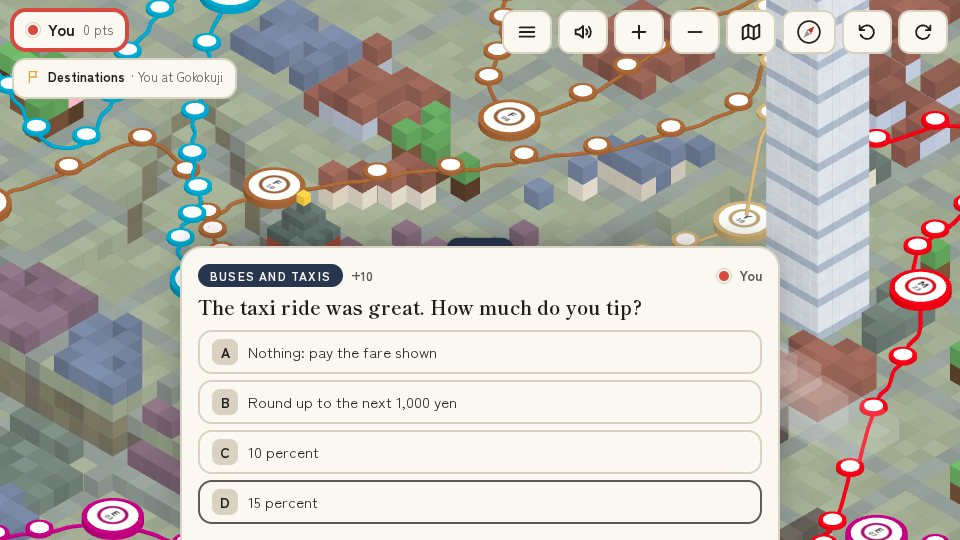
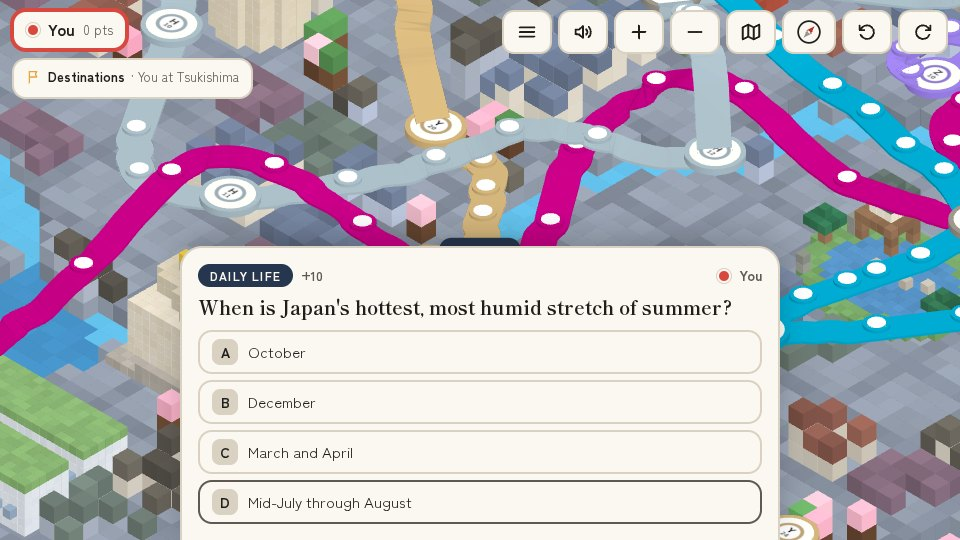
konbini page: current screenshots and social card

diff --git a/konbini/index.html b/konbini/index.html
@@ -4,4 +4,4 @@
 <!--║ snek  rogu                         ║-->
 <!--║ (Esc exits back to this menu)      ║-->
 <!--╚════════════════════════════════════╝-->
-<!DOCTYPE html> <html lang="en"> <head> <meta charset="utf-8"> <meta name="viewport" content="width=device-width,initial-scale=1"> <title>Konbini Quest · eightyfour.ca</title> <meta name="description" content="Play Konbini Quest in your browser: 500 Japan travel etiquette questions and a voxel Tokyo subway to ride. Free, no account, works offline. Android app coming soon."> <link rel="canonical" href="https://eightyfour.ca/konbini/"> <meta name="color-scheme" content="dark light"> <meta name="theme-color" media="(prefers-color-scheme: light)" content="#27364f"> <meta name="theme-color" media="(prefers-color-scheme: dark)" content="#27364f"> <meta name="author" content="Michal Pandyra"> <meta name="robots" content="max-image-preview:large"> <meta property="og:type" content="website"> <meta property="og:site_name" content="eightyfour.ca"> <meta property="og:locale" content="en"> <meta property="og:title" content="Konbini Quest"> <meta property="og:description" content="Play Konbini Quest in your browser: 500 Japan travel etiquette questions and a voxel Tokyo subway to ride. Free, no account, works offline. Android app coming soon."> <meta property="og:url" content="https://eightyfour.ca/konbini/"> <meta property="og:image" content="https://eightyfour.ca/assets/apps/konbini/og.png?v=074dcf05f3"> <meta property="og:image:type" content="image/png"> <meta property="og:image:width" content="1200"> <meta property="og:image:height" content="630"> <meta property="og:image:alt" content="Konbini Quest: a voxel Tokyo with colour-coded subway lines and landmarks"> <meta name="twitter:card" content="summary_large_image"> <meta name="twitter:title" content="Konbini Quest"> <meta name="twitter:description" content="Play Konbini Quest in your browser: 500 Japan travel etiquette questions and a voxel Tokyo subway to ride. Free, no account, works offline. Android app coming soon."> <meta name="twitter:image" content="https://eightyfour.ca/assets/apps/konbini/og.png?v=074dcf05f3"> <meta name="twitter:image:alt" content="Konbini Quest: a voxel Tokyo with colour-coded subway lines and landmarks"> <link rel="alternate" type="application/json+oembed" href="https://eightyfour.ca/oembed/konbini.json" title="Konbini Quest"> <link rel="icon" href="/assets/favicon.svg?v=c998d509f4" type="image/svg+xml"> <link rel="icon" href="/assets/favicon-32.png?v=6f6355fc52" type="image/png" sizes="32x32"> <link rel="apple-touch-icon" href="/assets/apple-touch-icon.png?v=10fae56969"> <link rel="stylesheet" href="/css/styles.css?v=58aa38dd25"> <link rel="stylesheet" href="/css/apps.css?v=ce3bce93f3"> <script async src="https://www.googletagmanager.com/gtag/js?id=G-TZKJEXC6HC"></script> <script async src="/js/analytics.js?v=ccf33c2bfd"></script> <script type="application/ld+json">{"@context":"https://schema.org","@graph":[{"@type":"WebSite","@id":"https://eightyfour.ca/#website","name":"eightyfour.ca","url":"https://eightyfour.ca/","inLanguage":"en","publisher":{"@type":"Person","name":"Michal Pandyra","url":"https://pandymic.com/"}},{"@type":"WebPage","@id":"https://eightyfour.ca/konbini/","url":"https://eightyfour.ca/konbini/","name":"Konbini Quest","description":"Play Konbini Quest in your browser: 500 Japan travel etiquette questions and a voxel Tokyo subway to ride. Free, no account, works offline. Android app coming soon.","inLanguage":"en","isPartOf":{"@id":"https://eightyfour.ca/#website"},"primaryImageOfPage":{"@type":"ImageObject","url":"https://eightyfour.ca/assets/apps/konbini/og.png?v=074dcf05f3","width":1200,"height":630},"breadcrumb":{"@id":"https://eightyfour.ca/konbini/#breadcrumb"},"about":{"@id":"https://eightyfour.ca/konbini/#app"}},{"@type":"BreadcrumbList","@id":"https://eightyfour.ca/konbini/#breadcrumb","itemListElement":[{"@type":"ListItem","position":1,"name":"eightyfour.ca","item":"https://eightyfour.ca/"},{"@type":"ListItem","position":2,"name":"Konbini Quest","item":"https://eightyfour.ca/konbini/"}]},{"@type":"VideoGame","@id":"https://eightyfour.ca/konbini/#app","name":"Konbini Quest","description":"Play Konbini Quest in your browser: 500 Japan travel etiquette questions and a voxel Tokyo subway to ride. Free, no account, works offline. Android app coming soon.","url":"https://eightyfour.ca/konbini/play/","image":"https://eightyfour.ca/assets/apps/konbini/og.png?v=074dcf05f3","applicationCategory":"GameApplication","operatingSystem":"Web browser, Android","genre":"Quiz, board game","gamePlatform":"Web browser, Android","inLanguage":"en","isAccessibleForFree":true,"offers":{"@type":"Offer","price":"0","priceCurrency":"CAD","availability":"https://schema.org/InStock"},"author":{"@type":"Person","name":"Michal Pandyra","url":"https://pandymic.com/"},"publisher":{"@type":"Person","name":"Michal Pandyra","url":"https://pandymic.com/"},"mainEntityOfPage":"https://eightyfour.ca/konbini/"}]}</script></head> <body class="layout-page app-splash app-konbini"> <a class="skip-link" href="#main">Skip to main content</a> <header class="site-header"> <a class="brand" href="/"><svg class="logo" viewBox="0 0 64 64" fill="none" stroke-width="3.5" stroke-linecap="round" stroke-linejoin="round" aria-hidden="true" focusable="false"><circle class="logo__eight" cx="20.5" cy="20.5" r="8.5"/><circle class="logo__eight" cx="20.5" cy="40" r="11"/><path class="logo__four" d="M49.5 51V12L33 40h25"/></svg><span class="brand__name">eightyfour</span><span class="sr-only"> home</span></a> <nav aria-label="Primary"><ul role="list"><li><a href="/#who">Who</a></li><li><a href="/#what">What</a></li><li><a href="/#why">Why</a></li></ul></nav> </header> <main id="main" tabindex="-1"> <section class="app-hero"> <picture><source srcset="/assets/apps/konbini/icon.webp?v=ad80c38c6c" type="image/webp"><img src="/assets/apps/konbini/icon.png?v=cc67247c0e" alt="" class="app-icon" width="256" height="256" loading="eager" decoding="async"></picture><div class="flow"> <p class="eyebrow">Free in your browser, Android coming soon</p> <h1>Konbini Quest</h1> <p class="lead">Learn the manners, ride the metro.</p> </div> </section> <picture><source srcset="/assets/apps/konbini/feature.webp?v=2a1288ba42" type="image/webp"><img src="/assets/apps/konbini/feature.jpg?v=7b5ad4c7e1" alt="Konbini Quest: a voxel Tokyo with ten colour-coded subway lines, step discs between round station pads, and landmarks from Tokyo Skytree to Senso-ji" class="app-shot" width="1024" height="500" loading="lazy" decoding="async"></picture><section> <h2>Answer, ride, arrive</h2> <p>A quiz and board game about getting along in Japan. Each right answer moves your pawn along a miniature Tokyo subway built from real routes, station by station, toward your destination. Each answer comes with a one-line reason, so you learn why a custom exists, not just what it is.</p> <ul> <li><strong>A real network, in voxels.</strong> Ten lines and 144 stations on their real routes, with Tokyo Skytree, Senso-ji, Tokyo Tower and two dozen more landmarks to ride past.</li> <li><strong>Questions worth knowing:</strong> 500 of them, on ramen counters, onsen, trains, temples, shoes, taxis, konbini (convenience store) checkouts, plus a few for any traveller. Harder questions earn more points.</li> <li><strong>Ways to play:</strong> solo, up to four players passing one phone, or online with friends through a share link, with a lobby and chat, between browsers and the Android app. Six modes, from a race to four destinations to a stamp rally.</li> <li><strong>Sounds like a station:</strong> every platform plays its own departure melody while you pick a direction.</li> <li><strong>Works offline</strong> once it has loaded, and installs like an app. No account, no ads, no tracking in the game.</li> </ul> </section> <section> <h2>On the line</h2> <div class="gallery"> <picture><source srcset="/assets/apps/konbini/01_question.webp?v=a044471f4d" type="image/webp"><img src="/assets/apps/konbini/01_question.jpg?v=a4f8b5ef27" alt="A question card over the board: how much to tip after a taxi ride in Japan, with four answers" width="960" height="540" loading="lazy" decoding="async"></picture> <picture><source srcset="/assets/apps/konbini/02_answer.webp?v=481760f699" type="image/webp"><img src="/assets/apps/konbini/02_answer.jpg?v=cad703be87" alt="The answer revealed: the right option is marked, with a one-line reason and the points earned" width="960" height="540" loading="lazy" decoding="async"></picture> <picture><source srcset="/assets/apps/konbini/03_choose.webp?v=10ed0289d4" type="image/webp"><img src="/assets/apps/konbini/03_choose.jpg?v=4855aa033b" alt="Choosing a direction on the Yurakucho Line: toward Ikebukuro or toward Shin-kiba, with the closest choice marked" width="960" height="540" loading="lazy" decoding="async"></picture></div> </section> <section> <h2>On your phone</h2> <p>Konbini Quest runs in any modern browser, on a phone or a computer, and installs like an app from the browser menu. An Android app for Google Play is on its way; online games will work between the two.</p> </section> <div class="getbar"> <p><a href="/konbini/play/" class="btn">Play in browser</a></p> <div class="store-soon" aria-disabled="true"> <img src="/assets/apps/konbini/google-play-badge.png?v=f72611e2df" alt="Get it on Google Play" class="store-badge" width="161" height="62" loading="lazy" decoding="async"> <p class="store-note">Coming<br>soon</p> </div> </div> </main> <footer class="site-footer"> <p class="site-footer__statement"><strong>Built with purpose.</strong> Every project here makes something a little more useful, one scratch at a time.</p> <p>© 2026 Michal Pandyra.</p> <nav aria-label="Footer"><ul role="list"><li><a href="mailto:info@eightyfour.ca">info@eightyfour.ca</a></li><li><a href="https://pandymic.com/">pandymic.com</a></li><li><a href="/privacy/">Privacy</a></li></ul></nav> </footer> <script src="/js/arcade.js?v=99862998b3" defer></script> </body> </html>
+<!DOCTYPE html> <html lang="en"> <head> <meta charset="utf-8"> <meta name="viewport" content="width=device-width,initial-scale=1"> <title>Konbini Quest · eightyfour.ca</title> <meta name="description" content="Play Konbini Quest in your browser: 500 Japan travel etiquette questions and a voxel Tokyo subway to ride. Free, no account, works offline. Android app coming soon."> <link rel="canonical" href="https://eightyfour.ca/konbini/"> <meta name="color-scheme" content="dark light"> <meta name="theme-color" media="(prefers-color-scheme: light)" content="#27364f"> <meta name="theme-color" media="(prefers-color-scheme: dark)" content="#27364f"> <meta name="author" content="Michal Pandyra"> <meta name="robots" content="max-image-preview:large"> <meta property="og:type" content="website"> <meta property="og:site_name" content="eightyfour.ca"> <meta property="og:locale" content="en"> <meta property="og:title" content="Konbini Quest"> <meta property="og:description" content="Play Konbini Quest in your browser: 500 Japan travel etiquette questions and a voxel Tokyo subway to ride. Free, no account, works offline. Android app coming soon."> <meta property="og:url" content="https://eightyfour.ca/konbini/"> <meta property="og:image" content="https://eightyfour.ca/assets/apps/konbini/og.png?v=0e3f0d8a48"> <meta property="og:image:type" content="image/png"> <meta property="og:image:width" content="1200"> <meta property="og:image:height" content="630"> <meta property="og:image:alt" content="Konbini Quest: a voxel Tokyo with subway lines drawn as colour-coded ribbons and landmarks"> <meta name="twitter:card" content="summary_large_image"> <meta name="twitter:title" content="Konbini Quest"> <meta name="twitter:description" content="Play Konbini Quest in your browser: 500 Japan travel etiquette questions and a voxel Tokyo subway to ride. Free, no account, works offline. Android app coming soon."> <meta name="twitter:image" content="https://eightyfour.ca/assets/apps/konbini/og.png?v=0e3f0d8a48"> <meta name="twitter:image:alt" content="Konbini Quest: a voxel Tokyo with subway lines drawn as colour-coded ribbons and landmarks"> <link rel="alternate" type="application/json+oembed" href="https://eightyfour.ca/oembed/konbini.json" title="Konbini Quest"> <link rel="icon" href="/assets/favicon.svg?v=c998d509f4" type="image/svg+xml"> <link rel="icon" href="/assets/favicon-32.png?v=6f6355fc52" type="image/png" sizes="32x32"> <link rel="apple-touch-icon" href="/assets/apple-touch-icon.png?v=10fae56969"> <link rel="stylesheet" href="/css/styles.css?v=58aa38dd25"> <link rel="stylesheet" href="/css/apps.css?v=ce3bce93f3"> <script async src="https://www.googletagmanager.com/gtag/js?id=G-TZKJEXC6HC"></script> <script async src="/js/analytics.js?v=ccf33c2bfd"></script> <script type="application/ld+json">{"@context":"https://schema.org","@graph":[{"@type":"WebSite","@id":"https://eightyfour.ca/#website","name":"eightyfour.ca","url":"https://eightyfour.ca/","inLanguage":"en","publisher":{"@type":"Person","name":"Michal Pandyra","url":"https://pandymic.com/"}},{"@type":"WebPage","@id":"https://eightyfour.ca/konbini/","url":"https://eightyfour.ca/konbini/","name":"Konbini Quest","description":"Play Konbini Quest in your browser: 500 Japan travel etiquette questions and a voxel Tokyo subway to ride. Free, no account, works offline. Android app coming soon.","inLanguage":"en","isPartOf":{"@id":"https://eightyfour.ca/#website"},"primaryImageOfPage":{"@type":"ImageObject","url":"https://eightyfour.ca/assets/apps/konbini/og.png?v=0e3f0d8a48","width":1200,"height":630},"breadcrumb":{"@id":"https://eightyfour.ca/konbini/#breadcrumb"},"about":{"@id":"https://eightyfour.ca/konbini/#app"}},{"@type":"BreadcrumbList","@id":"https://eightyfour.ca/konbini/#breadcrumb","itemListElement":[{"@type":"ListItem","position":1,"name":"eightyfour.ca","item":"https://eightyfour.ca/"},{"@type":"ListItem","position":2,"name":"Konbini Quest","item":"https://eightyfour.ca/konbini/"}]},{"@type":"VideoGame","@id":"https://eightyfour.ca/konbini/#app","name":"Konbini Quest","description":"Play Konbini Quest in your browser: 500 Japan travel etiquette questions and a voxel Tokyo subway to ride. Free, no account, works offline. Android app coming soon.","url":"https://eightyfour.ca/konbini/play/","image":"https://eightyfour.ca/assets/apps/konbini/og.png?v=0e3f0d8a48","applicationCategory":"GameApplication","operatingSystem":"Web browser, Android","genre":"Quiz, board game","gamePlatform":"Web browser, Android","inLanguage":"en","isAccessibleForFree":true,"offers":{"@type":"Offer","price":"0","priceCurrency":"CAD","availability":"https://schema.org/InStock"},"author":{"@type":"Person","name":"Michal Pandyra","url":"https://pandymic.com/"},"publisher":{"@type":"Person","name":"Michal Pandyra","url":"https://pandymic.com/"},"mainEntityOfPage":"https://eightyfour.ca/konbini/"}]}</script></head> <body class="layout-page app-splash app-konbini"> <a class="skip-link" href="#main">Skip to main content</a> <header class="site-header"> <a class="brand" href="/"><svg class="logo" viewBox="0 0 64 64" fill="none" stroke-width="3.5" stroke-linecap="round" stroke-linejoin="round" aria-hidden="true" focusable="false"><circle class="logo__eight" cx="20.5" cy="20.5" r="8.5"/><circle class="logo__eight" cx="20.5" cy="40" r="11"/><path class="logo__four" d="M49.5 51V12L33 40h25"/></svg><span class="brand__name">eightyfour</span><span class="sr-only"> home</span></a> <nav aria-label="Primary"><ul role="list"><li><a href="/#who">Who</a></li><li><a href="/#what">What</a></li><li><a href="/#why">Why</a></li></ul></nav> </header> <main id="main" tabindex="-1"> <section class="app-hero"> <picture><source srcset="/assets/apps/konbini/icon.webp?v=ad80c38c6c" type="image/webp"><img src="/assets/apps/konbini/icon.png?v=cc67247c0e" alt="" class="app-icon" width="256" height="256" loading="eager" decoding="async"></picture><div class="flow"> <p class="eyebrow">Free in your browser, Android coming soon</p> <h1>Konbini Quest</h1> <p class="lead">Learn the manners, ride the metro.</p> </div> </section> <picture><source srcset="/assets/apps/konbini/feature.webp?v=0e40e38a26" type="image/webp"><img src="/assets/apps/konbini/feature.jpg?v=dd381d318a" alt="Konbini Quest: a pawn at Tsukishima in a voxel Tokyo, with subway lines drawn as colour-coded ribbons, step discs between round station pads, and voxel landmarks" class="app-shot" width="1024" height="500" loading="lazy" decoding="async"></picture><section> <h2>Answer, ride, arrive</h2> <p>A quiz and board game about getting along in Japan. Each right answer moves your pawn along a miniature Tokyo subway built from real routes, station by station, toward your destination. Each answer comes with a one-line reason, so you learn why a custom exists, not just what it is.</p> <ul> <li><strong>A real network, in voxels.</strong> Ten lines and 144 stations on their real routes, with Tokyo Skytree, Senso-ji, Tokyo Tower and two dozen more landmarks to ride past.</li> <li><strong>Questions worth knowing:</strong> 500 of them, on ramen counters, onsen, trains, temples, shoes, taxis, konbini (convenience store) checkouts, plus a few for any traveller. Harder questions earn more points.</li> <li><strong>Ways to play:</strong> solo, up to four players passing one phone, or online with friends through a share link, with a lobby and chat, between browsers and the Android app. Six modes, from a race to four destinations to a stamp rally.</li> <li><strong>Sounds like a station:</strong> every platform plays its own departure melody while you pick a direction.</li> <li><strong>Works offline</strong> once it has loaded, and installs like an app. No account, no ads, no tracking in the game.</li> </ul> </section> <section> <h2>On the line</h2> <div class="gallery"> <picture><source srcset="/assets/apps/konbini/01_question.webp?v=083289bfc2" type="image/webp"><img src="/assets/apps/konbini/01_question.jpg?v=621de568c0" alt="A question card over the board: when Japan's hottest, most humid stretch of summer is, with four answers" width="960" height="540" loading="lazy" decoding="async"></picture> <picture><source srcset="/assets/apps/konbini/02_answer.webp?v=3e0a6da0be" type="image/webp"><img src="/assets/apps/konbini/02_answer.jpg?v=1de3bf6ea8" alt="The answer revealed: the right option is marked, with a one-line reason and the points earned" width="960" height="540" loading="lazy" decoding="async"></picture> <picture><source srcset="/assets/apps/konbini/03_choose.webp?v=88b188d6c1" type="image/webp"><img src="/assets/apps/konbini/03_choose.jpg?v=ccc2a22154" alt="Choosing a direction at Tsukishima: the Oedo Line toward Nakano-sakaue or Tochomae, or the Yurakucho Line toward Ikebukuro or Shin-kiba, with the closest choice marked" width="960" height="540" loading="lazy" decoding="async"></picture></div> </section> <section> <h2>On your phone</h2> <p>Konbini Quest runs in any modern browser, on a phone or a computer, and installs like an app from the browser menu. An Android app for Google Play is on its way; online games will work between the two.</p> </section> <div class="getbar"> <p><a href="/konbini/play/" class="btn">Play in browser</a></p> <div class="store-soon" aria-disabled="true"> <img src="/assets/apps/konbini/google-play-badge.png?v=f72611e2df" alt="Get it on Google Play" class="store-badge" width="161" height="62" loading="lazy" decoding="async"> <p class="store-note">Coming<br>soon</p> </div> </div> </main> <footer class="site-footer"> <p class="site-footer__statement"><strong>Built with purpose.</strong> Every project here makes something a little more useful, one scratch at a time.</p> <p>© 2026 Michal Pandyra.</p> <nav aria-label="Footer"><ul role="list"><li><a href="mailto:info@eightyfour.ca">info@eightyfour.ca</a></li><li><a href="https://pandymic.com/">pandymic.com</a></li><li><a href="/privacy/">Privacy</a></li></ul></nav> </footer> <script src="/js/arcade.js?v=99862998b3" defer></script> </body> </html>
